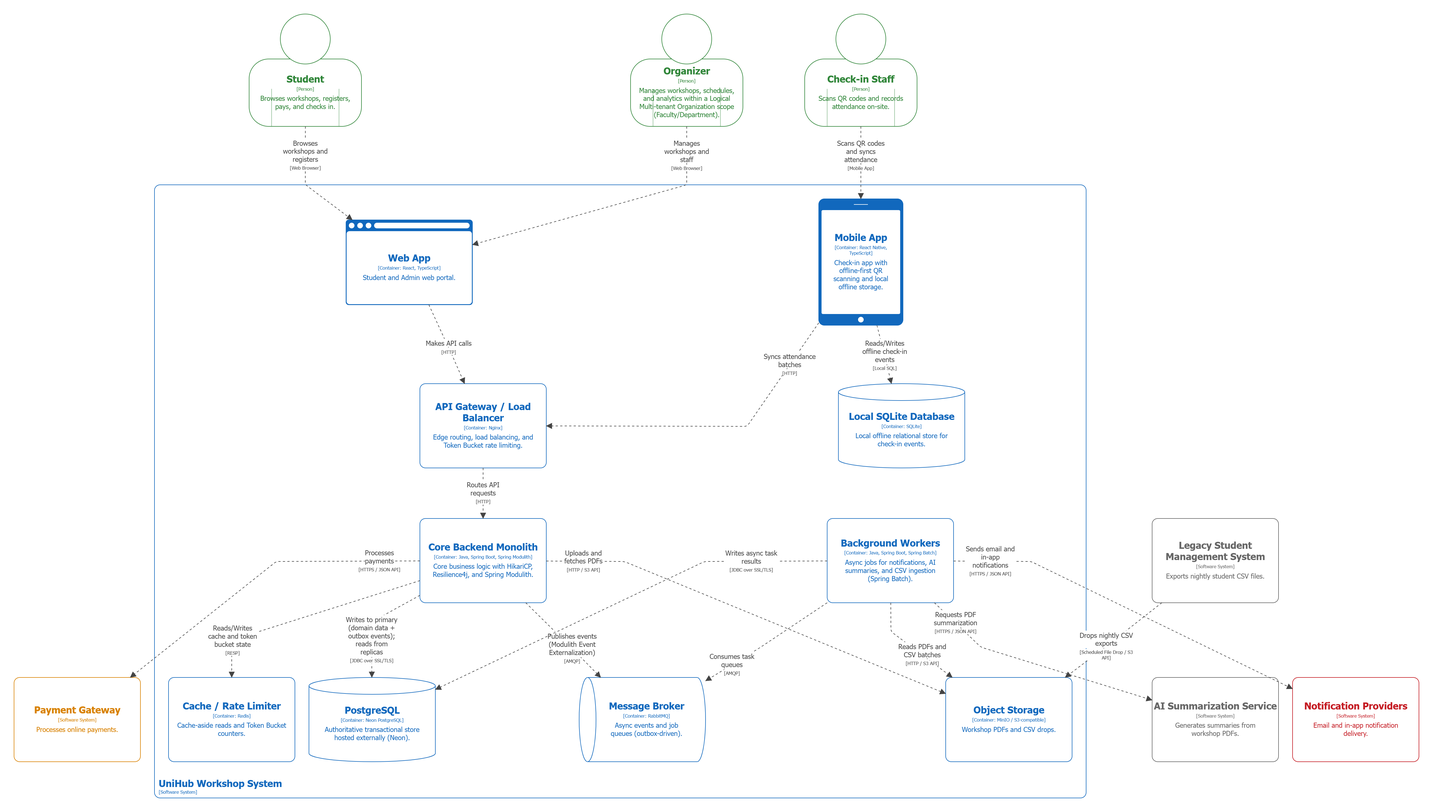
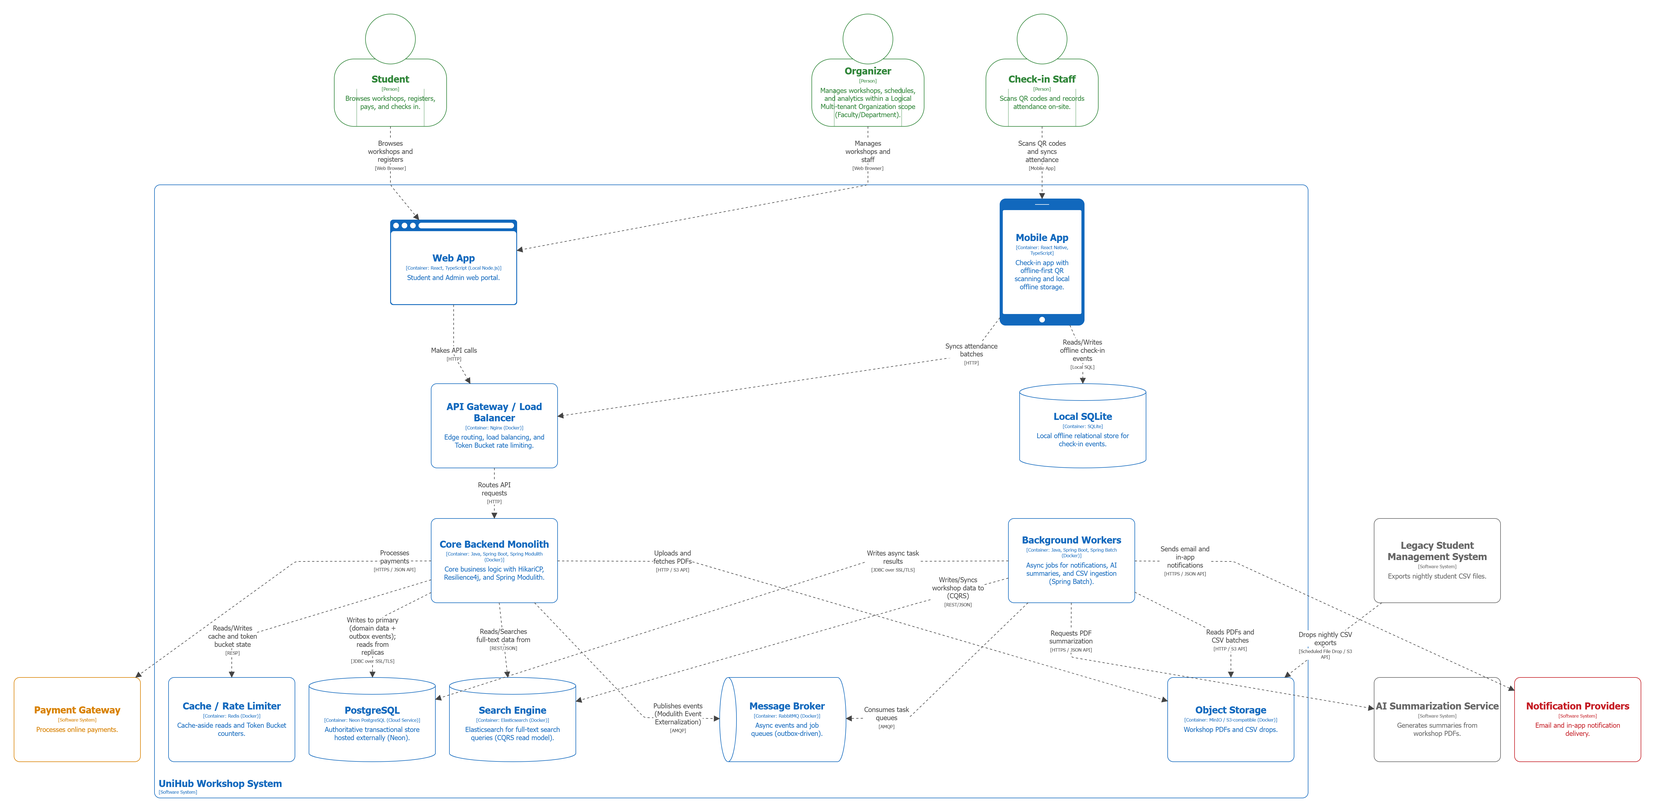
docs: update workshop lifecycle diagram

diff --git a/blueprint/design.md b/blueprint/design.md
@@ -22,7 +22,7 @@ The system architecture is organized into a strict tiered structure to distribut
 - **Client Tier:** React (TypeScript) for the responsive web portal; React Native (TypeScript) with a local SQLite engine for the offline-first mobile check-in application.
 - **API Gateway Layer:** Nginx acting as the reverse proxy, load balancer, and edge router responsible for SSL termination and global rate-limiting.
 - **Backend Tier:** Java and Spring Boot leveraging **Spring Modulith** for internal async event publication registry and modular boundary enforcement.
-- **Data Persistence Tier:** Serverless Neon PostgreSQL for core relational data and ACID transactions; S3-compatible Object Storage for PDF assets and legacy CSV storage.
+- **Data Persistence Tier:** Serverless Neon PostgreSQL for core relational data and ACID transactions; S3-compatible Object Storage for PDF assets and legacy CSV storage, and Elasticsearch for offloading heavy full-text search queries via the CQRS pattern.
 - **Asynchronous & Caching Layer:** Redis for distributed caching; RabbitMQ for reliable, decoupled message brokering.
 
 ### Core Resilience Strategies
@@ -63,11 +63,12 @@ The system architecture is organized into a strict tiered structure to distribut
 | :------------------------------ | :--------------------------------- | :-------------------------------- | :---------------------------------------------------------------------------------------------------------------------------------------------------------------------------------------------------------------------------- |
 | **Web App**                     | React, TypeScript                  | Local Docker                      | Responsive web portal for Students and Organizers; performs client-side validation, renders QR confirmations, authenticates users (JWT), and communicates with the API via the local gateway.                                 |
 | **Mobile App**                  | React Native, TypeScript           | Physical Mobile Device / Emulator | Offline-first check-in application for Check-in Staff; captures scans, queues events locally, and syncs batched events to the backend when connectivity permits.                                                              |
-| **Local SQLite Database**       | SQLite                             | Local device storage              | Offline-first queue for pending check-in events; provides durable local persistence, idempotent upserts, and deterministic reconciliation during batch syncs.                                                                 |
+| **Local SQLite Database**       | SQLite                             | Local Device Storage              | Offline-first queue for pending check-in events; provides durable local persistence, idempotent upserts, and deterministic reconciliation during batch syncs.                                                                 |
 | **API Gateway / Load Balancer** | Nginx                              | Local Docker                      | Edge routing, load balancing, and Token Bucket rate limiting for incoming HTTP traffic inside the local Docker network; forwards validated requests to the Core Backend Monolith.                                             |
 | **Core Backend Monolith**       | Java, Spring Boot, Spring Modulith | Local Docker                      | Implements authoritative domain logic, module-level event publication registry, outbox pattern for reliable event externalization, transactional seat allocation, and payment orchestration.                                  |
 | **Background Workers**          | Java, Spring Boot, Spring Batch    | Local Docker                      | Executes deferred tasks: AI PDF summarization, notification delivery, and nightly CSV ingestion. Consumes brokered events, interacts with object storage and external APIs, and persists async results to the cloud database. |
-| **PostgreSQL**                  | Neon PostgreSQL                    | Cloud Service (Neon)              | Authoritative transactional datastore for registrations, payments, and attendance. Requires JDBC over SSL/TLS for encrypted access from local services.                                                                       |
+| **PostgreSQL**                  | PostgreSQL                         | Neon Cloud Service                | Authoritative transactional datastore for registrations, payments, and attendance. Requires JDBC over SSL/TLS for encrypted access from local services.                                                                       |
+| **Search Engine**               | Elasticsearch                      | Local Docker                      | Offloads read-heavy full-text search queries, enabling high-performance workshop discovery without impacting primary database transactions.                                                                                   |
 | **Cache / Rate Limiter**        | Redis                              | Local Docker                      | Cache-aside reads for performance and shared token-bucket counters used by the gateway for admission control and rate limiting.                                                                                               |
 | **Message Broker**              | RabbitMQ                           | Local Docker                      | Reliable, decoupled queues for event-driven processing, worker retries, and dead-letter handling; integrates with the Core Backend Monolith via the outbox pattern.                                                           |
 | **Object Storage**              | MinIO / S3-compatible              | Local Docker                      | Stores unstructured assets (PDFs and nightly CSV drops); accessed via the S3 API by workers and the Core Backend for ingestion and processing.                                                                                |
@@ -76,22 +77,25 @@ The system architecture is organized into a strict tiered structure to distribut
 
 ### System Architecture Diagram
 
-<p align="center">
-  <img src="./diagrams/system_architecture.png" style="width:100%;" alt="System Architecture">
-</p>
+**Key architectural characteristics:**
 
 - Horizontally scaled Core Backend Monolith instances (Node 1 and Node 2) behind a Local Docker edge using Nginx for HTTP routing and admission control.
 - Local Docker runtime for gateway, backend, workers, cache, broker, and object storage; Neon PostgreSQL is hosted as a Cloud Service requiring encrypted JDBC connections.
 - Event-driven decoupling via Spring Modulith event publication registry and RabbitMQ-backed worker pipelines for async AI summarization and CSV ingestion.
 - Offline-first mobile check-in with a local SQLite queue and batched reconciliation to the cloud-backed authoritative store.
 
-| Architectural Pattern              | Implementation Details                                                                                                                                                                               |
-| :--------------------------------- | :--------------------------------------------------------------------------------------------------------------------------------------------------------------------------------------------------- |
-| **Gateway / Traffic Distribution** | Nginx acts as a pure reverse proxy and load balancer, routing incoming HTTP requests across Core Backend Monolith instances.                                                                         |
-| **Cache & Rate Limiting**          | Core Backend Monoliths enforce distributed Token Bucket admission control (via Bucket4j) at the application filter layer, using Redis for shared counters and cache-aside reads.                     |
-| **Read / Write Separation**        | Core Backend Monoliths read from Neon PostgreSQL replicas on cache misses and write domain data plus outbox publications to the Neon PostgreSQL primary; all database access uses JDBC over SSL/TLS. |
-| **Worker Responsibilities**        | Background Workers consume brokered events from RabbitMQ, execute AI summarization, notification dispatch, and nightly CSV ingestion, and persist async results to Neon PostgreSQL.                  |
-| **Broker Integration**             | Spring Modulith externalizes events to RabbitMQ; workers consume tasks, perform retries/backoff, and route failures to DLQs when necessary.                                                          |
+<p align="center">
+  <img src="./diagrams/system_architecture.png" style="width:100%;" alt="System Architecture Diagram">
+</p>
+
+| Architectural Pattern              | Implementation Details                                                                                                                                                                                                                                                                                         |
+| :--------------------------------- | :------------------------------------------------------------------------------------------------------------------------------------------------------------------------------------------------------------------------------------------------------------------------------------------------------------- |
+| **Gateway / Traffic Distribution** | Nginx acts as a pure reverse proxy and load balancer, routing incoming HTTP requests across Core Backend Monolith instances.                                                                                                                                                                                   |
+| **Cache & Rate Limiting**          | Core Backend Monoliths enforce distributed Token Bucket admission control (via Bucket4j) at the application filter layer, using Redis for shared counters and cache-aside reads.                                                                                                                               |
+| **Read / Write Separation**        | Core Backend Monoliths read from Neon PostgreSQL replicas on cache misses and write domain data plus outbox publications to the Neon PostgreSQL primary; all database access uses JDBC over SSL/TLS.                                                                                                           |
+| **Worker Responsibilities**        | Background Workers consume brokered events from RabbitMQ, execute AI summarization, notification dispatch, and nightly CSV ingestion, and persist async results to Neon PostgreSQL.                                                                                                                            |
+| **Broker Integration**             | Spring Modulith externalizes events to RabbitMQ; workers consume tasks, perform retries/backoff, and route failures to DLQs when necessary.                                                                                                                                                                    |
+| **CQRS & Search Optimization**     | To protect the primary PostgreSQL database from CPU-intensive full-text search queries under heavy load, the system utilizes Elasticsearch. The Core Backend writes to PostgreSQL, while Background Workers asynchronously synchronize the data to Elasticsearch, which exclusively serves all search traffic. |
 
 ### Workshop Registration Flow
 
@@ -113,7 +117,7 @@ sequenceDiagram
   participant API as Core Backend Monolith
   participant DB as Neon PostgreSQL
   participant Pay as Payment Gateway
-  participant Sweeper as Background Sweeper (Cron)
+  participant Sweeper as Cron Sweeper
   participant Registry as Spring Modulith Event Registry
   participant Broker as RabbitMQ
   participant Worker as Background Workers
@@ -135,6 +139,15 @@ sequenceDiagram
       GW-->>Web: Return cached response (or 409 Conflict if PENDING)
     else New request
       API->>DB: Insert idempotency key (Status: PENDING)
+      API->>DB: Query existing registrations for time overlap
+      alt Schedule Overlap Detected
+        DB-->>API: Overlap found
+        API->>DB: Update idempotency key (Status: FAILED)
+        API-->>GW: 422 Unprocessable Entity (Time conflict)
+        GW-->>Web: 422 Unprocessable Entity
+      else No Overlap
+        DB-->>API: Schedule clear
+      end
       API->>Redis: Atomic decrement capacity pre-check
       alt No capacity
         Redis-->>API: Capacity unavailable
@@ -214,48 +227,212 @@ sequenceDiagram
 
 This sequence captures the admin-driven workshop lifecycle and the event-driven propagation of changes to downstream services.
 
+**Workshop statuses:**
+
+- `DRAFT`: Initial state upon creation. Visible only to the creating Organizer. No search synchronization or external events.
+- `PUBLISHED`: Made public by the Organizer. Active and searchable in Elasticsearch. Open for student registrations.
+- `CANCELED`: Aborted mid-lifecycle. Triggers student notifications and removal from active search listings.
+- `COMPLETED`: Automatically transitioned by the system sweeper when the current time passes the workshop's end time.
+
 ```mermaid
 sequenceDiagram
   actor Organizer
   participant Web as Admin Web App
-  participant API as Backend API
+  participant GW as API Gateway (Nginx)
+  participant API as Core Backend Monolith
   participant DB as Neon PostgreSQL
+  participant Sweeper as Cron Sweeper
   participant Registry as Spring Modulith Event Registry
-  participant Broker as RabbitMQ
-  participant NotifWorker as Notification Worker
+  participant Broker as Message Broker (RabbitMQ)
+  participant Worker as Background Workers
+  participant ES as Elasticsearch
   participant Notify as Notification Providers
 
-  Organizer->>Web: Create/Update/Reschedule/Cancel workshop
-  Web->>API: POST/PUT/PATCH /workshops
-  API->>DB: Begin tx
-  API->>DB: Validate and persist lifecycle change
-  alt Create
-    API->>DB: Insert workshop record
-    API->>DB: Insert event publication (WorkshopCreated)
-  else Update
-    API->>DB: Update workshop details
-    API->>DB: Insert event publication (WorkshopUpdated)
-  else Reschedule
-    API->>DB: Update schedule/venue
-    API->>DB: Insert event publication (WorkshopRescheduled)
-  else Cancel
-    API->>DB: Mark workshop as canceled
-    API->>DB: Insert event publication (WorkshopCanceled)
-  end
-  API->>DB: Commit
-  API-->>Web: 200/201 Response
+  Note over Organizer,Notify: CREATE OPERATION
+  Organizer->>Web: Click "Save Draft"
+  Web->>GW: POST /api/v1/workshops
+  GW->>API: Forward Request
+  API->>DB: Verify ownership (Bypassed for Create)
+  API->>DB: Insert Workshop record (Status: DRAFT)
+  DB-->>API: Row persisted
+  API-->>GW: 201 Created (Draft Saved)
+  GW-->>Web: 201 Created
+  Web-->>Organizer: Show Draft Status in UI
 
-  par Event publication fan-out
-    Registry->>Broker: Externalize lifecycle event
-    Broker->>NotifWorker: Consume lifecycle event
-    NotifWorker->>DB: Fetch registered students (if Rescheduled/Canceled)
-    NotifWorker->>Notify: Send bulk notifications (Email/SMS)
+  Note over Organizer,Notify: PUBLISH OPERATION
+  Organizer->>Web: Click "Publish Workshop"
+  Web->>GW: PATCH /api/v1/workshops/{id}/publish
+  GW->>API: Forward Request
+  API->>DB: Verify ownership (organizer_id == jwt.sub)
+  alt Unauthorized
+    DB-->>API: Ownership mismatch
+    API-->>GW: 403 Forbidden
+    GW-->>Web: 403 Forbidden
+    Web-->>Organizer: 403 Forbidden
+  else Authorized
+    API->>DB: Select current_status from workshops
+    DB-->>API: current_status: STATUS
+    alt current_status == DRAFT
+      API->>DB: Update Workshop (Status: PUBLISHED)
+      API->>DB: Insert WorkshopPublishedEvent into Outbox
+      DB-->>API: Transaction committed
+      API-->>GW: 200 OK (Workshop Published)
+      GW-->>Web: 200 OK
+      Web-->>Organizer: Show Published Status in UI
+    else
+      API-->>GW: 422 Unprocessable Entity (Invalid State Transition)
+      GW-->>Web: 422 Unprocessable Entity
+      Web-->>Organizer: 422 Unprocessable Entity
+    end
   end
+
+  Note over Organizer,Notify: UPDATE OPERATION
+  Organizer->>Web: Click "Save Changes"
+  Web->>GW: PUT /api/v1/workshops/{id}
+  GW->>API: Forward Request
+  API->>DB: Verify ownership (organizer_id == jwt.sub)
+  alt Unauthorized
+    DB-->>API: Ownership mismatch
+    API-->>GW: 403 Forbidden
+    GW-->>Web: 403 Forbidden
+    Web-->>Organizer: 403 Forbidden
+  else Authorized
+    API->>DB: Select current_status from workshops
+    DB-->>API: current_status: STATUS
+    alt current_status == COMPLETED or current_status == CANCELED
+      API-->>GW: 422 Unprocessable Entity (Modification Blocked)
+      GW-->>Web: 422 Unprocessable Entity
+      Web-->>Organizer: 422 Unprocessable Entity
+    else
+      alt current_status == PUBLISHED
+        API->>DB: Query current registered student count
+        DB-->>API: registered_count
+        API->>API: Validate immutable fields & ensure capacity >= registered_count
+        alt Payload modifies immutable core fields or reduces capacity below registered count
+          API-->>GW: 422 Unprocessable Entity (Invalid Core Modification)
+          GW-->>Web: 422 Unprocessable Entity
+          Web-->>Organizer: 422 Unprocessable Entity
+        else
+          API->>DB: Update Workshop Details (non-core fields)
+          API->>DB: Insert WorkshopUpdatedEvent into Outbox
+          DB-->>API: Transaction committed
+          API-->>GW: 200 OK
+          GW-->>Web: 200 OK
+        end
+      else current_status == DRAFT
+        API->>DB: Update Workshop Details (all fields allowed)
+        Note over API,DB: DRAFT changes do not generate outbox events
+        DB-->>API: Transaction committed
+        API-->>GW: 200 OK
+        GW-->>Web: 200 OK
+      end
+    end
+  end
+
+  Note over Organizer,Notify: RESCHEDULE OPERATION
+  Organizer->>Web: Change Date/Time & Click "Reschedule"
+  Web->>GW: PATCH /api/v1/workshops/{id}/reschedule
+  GW->>API: Forward Request
+  API->>DB: Verify ownership (organizer_id == jwt.sub)
+  alt Unauthorized
+    DB-->>API: Ownership mismatch
+    API-->>GW: 403 Forbidden
+    GW-->>Web: 403 Forbidden
+    Web-->>Organizer: 403 Forbidden
+  else Authorized
+    API->>DB: Select current_status from workshops
+    DB-->>API: current_status: STATUS
+    alt current_status == DRAFT or current_status == COMPLETED or current_status == CANCELED
+      API-->>GW: 422 Unprocessable Entity (Reschedule Restricted to Published)
+      GW-->>Web: 422 Unprocessable Entity
+      Web-->>Organizer: 422 Unprocessable Entity
+    else
+      API->>API: Validate new_start_time/new_end_time (must be future and start < end)
+      alt new_start_time < NOW or new_end_time <= new_start_time
+        API-->>GW: 422 Unprocessable Entity (Invalid Temporal Range)
+        GW-->>Web: 422 Unprocessable Entity
+        Web-->>Organizer: 422 Unprocessable Entity
+      else
+        API->>DB: Resource Collision Check (location/speaker overlap within time window)
+        alt Collision Found
+          DB-->>API: Collision Found
+          API-->>GW: 422 Unprocessable Entity (Resource Conflict)
+          GW-->>Web: 422 Unprocessable Entity
+          Web-->>Organizer: 422 Unprocessable Entity
+        else Schedule Clear
+          DB-->>API: Schedule Clear
+          API->>DB: Update Workshop Schedule (Status remains current)
+          API->>DB: Insert WorkshopRescheduledEvent into Outbox
+          DB-->>API: Transaction committed
+          API-->>GW: 200 OK
+          GW-->>Web: 200 OK
+          Web-->>Organizer: 200 OK
+        end
+      end
+    end
+  end
+
+  Note over Organizer,Notify: CANCEL OPERATION
+  Organizer->>Web: Click "Cancel Workshop"
+  Web->>GW: PATCH /api/v1/workshops/{id}/cancel
+  GW->>API: Forward Request
+  API->>DB: Verify ownership (organizer_id == jwt.sub)
+  alt Unauthorized
+    DB-->>API: Ownership mismatch
+    API-->>GW: 403 Forbidden
+    GW-->>Web: 403 Forbidden
+    Web-->>Organizer: 403 Forbidden
+  else Authorized
+    API->>DB: Select current_status from workshops
+    DB-->>API: current_status: STATUS
+    alt current_status == CANCELED or current_status == COMPLETED
+      API-->>GW: 422 Unprocessable Entity (Invalid State)
+      GW-->>Web: 422 Unprocessable Entity
+      Web-->>Organizer: 422 Unprocessable Entity
+    else
+      API->>DB: Update Workshop (Status: CANCELED)
+      API->>DB: Insert WorkshopCanceledEvent into Outbox
+      DB-->>API: Transaction committed
+      API-->>GW: 200 OK
+      GW-->>Web: 200 OK
+      Web-->>Organizer: Show Canceled Status in UI
+    end
+  end
+
+  Note over Organizer,Notify: AUTOMATED LIFECYCLE SWEEPER
+  loop Hourly Sweep
+    Sweeper->>DB: Query PUBLISHED workshops where end_time < NOW
+    DB-->>Sweeper: Return expired workshop ids
+    Sweeper->>DB: Bulk Update Workshop (Status: COMPLETED)
+    DB-->>Sweeper: Acknowledge bulk update
+    Sweeper->>DB: Bulk Insert WorkshopCompletedEvent into Outbox
+    DB-->>Sweeper: Acknowledge bulk insert
+  end
+
+  Note over Organizer,Notify: ASYNCHRONOUS EVENT FAN-OUT
+  Note over API,Registry: Events are only externalized by the Registry component which reads event_publication post-commit.
+  Note over Registry,Broker: Spring Modulith Transactional Outbox Event Fabric
+  Registry->>Broker: Externalize domain events from event_publication
+  Broker->>Worker: Deliver domain events
+  alt Event is Published or Updated or Rescheduled
+    Worker->>ES: Sync/Upsert Workshop data to Elasticsearch Index
+  else Event is Completed or Canceled
+    Worker->>ES: Remove or mark inactive in Elasticsearch Index
+  end
+  alt Event is Rescheduled or Canceled
+    Worker->>DB: Fetch registered student list for this workshop
+    DB-->>Worker: Return student list
+    Worker->>Notify: Send bulk automated emails/push notifications
+  end
+
+  Note over API,ES: DRAFT records are never synchronized to Elasticsearch and generate no external events until transition to PUBLISHED.
 ```
 
-- **Lifecycle coverage:** Admins can create, update, reschedule, or cancel workshops through the web portal.
-- **Transactional event publication:** The lifecycle change and event publication are committed in the same transaction to guarantee consistent state and downstream notification delivery.
-- **Asynchronous fan-out:** The notification worker consumes lifecycle events, fetches impacted students, and sends bulk emails without blocking the admin UI.
+- **State Machine Enforcement:** The system enforces strict transitions: `DRAFT` -> `PUBLISHED` -> `COMPLETED` or `CANCELED`. Once a workshop reaches a terminal state (`COMPLETED` or `CANCELED`), the API layer strictly blocks any further mutations and returns `422 Unprocessable Entity` for attempts to modify the record.
+- **Data Ownership & Core Validation:** Modification endpoints validate `jwt.sub` against the workshop's `organizer_id` prior to mutation (skipped for `Create`). The `PUT`/`PATCH` handlers dynamically evaluate the current status: full updates are allowed while in `DRAFT`; once `PUBLISHED`, core fields (for example `price`) are immutable and any attempt to change them or reduce capacity below current registrations is rejected with `422 Unprocessable Entity` to protect active attendees.
+- **Automated Event Completion Sweeper:** A dedicated `Sweeper` cron component runs hourly. It queries the database for expired `PUBLISHED` workshops, marks them `COMPLETED`, and writes `WorkshopCompletedEvent` entries into the transactional outbox for downstream processing.
+- **Granular Asynchronous Branching:** The `Registry` component (not the API) extracts committed outbox rows and externalizes them to the message broker. Background workers synchronize to Elasticsearch on publication, updates, rescheduling, and completion events (keeping `DRAFT` items completely isolated); mass notification flows are executed only for disruptive events (`RESCHEDULED`, `CANCELED`).
+- **Strict Reschedule Guarantees:** The reschedule endpoint is explicitly blocked for `DRAFT`, `COMPLETED`, or `CANCELED` states. Rescheduling requires a `PUBLISHED` workshop, validates that proposed times are future and form a valid range, and runs a PostgreSQL-level resource collision check (location and speaker availability) to prevent double-booking. Any validation failure returns `422 Unprocessable Entity` and the transaction is not committed.
 
 ### Workshop Search & Cache-Aside Flow
 

diff --git a/blueprint/proposal.md b/blueprint/proposal.md
@@ -100,7 +100,7 @@ The system relies on a modular, decoupled architecture prioritizing resilience d
 - **Client Applications:** React (TypeScript) for Web, and React Native (TypeScript) with SQLite for offline-first Mobile check-in.
 - **Edge / API Gateway:** **Nginx** acts as the reverse proxy, load balancer, and API gateway, handling routing and edge-level rate limiting.
 - **Core Backend:** Java & Spring Boot. The architectural foundation utilizes **Spring Modulith** to enable the "Event-Driven Modular Monolith" and internal event registry.
-- **Data Persistence:** Serverless Neon PostgreSQL (for strict ACID transactions) and S3-compatible Object Storage for unstructured assets.
+- **Data Persistence:** Serverless Neon PostgreSQL (for strict ACID transactions), Elasticsearch (Search Engine), and S3-compatible Object Storage for unstructured assets.
 - **Asynchronous & Caching:** RabbitMQ for decoupled message processing, and Redis for distributed caching.
 
 > [!TIP]
@@ -119,7 +119,7 @@ The system relies on a modular, decoupled architecture prioritizing resilience d
 ### Blueprint Phase Artifacts
 
 - **System Design & C4 Diagrams:** Context, Container, and component dependency visuals.
-- **Database Schema:** SQL/NoSQL strategy justification, partial unique indexes, TTL cleanup routines, and full-text search strategies.
+- **Database Schema:** SQL/NoSQL strategy justification, partial unique indexes, TTL cleanup routines, and Elasticsearch integration for high-performance full-text search operations.
 - **Critical Flow Logic:** Documented steps for Paid Workshop Registration, Offline Sync, and CSV Ingestion including detailed recovery paths.
 - **Access Control Model:** Defined RBAC enforcement matrix across API endpoints, mobile, and web interfaces.
 - **Protection Designs:** Documented implementation choices for rate-limiting, idempotency, and circuit breakers.
